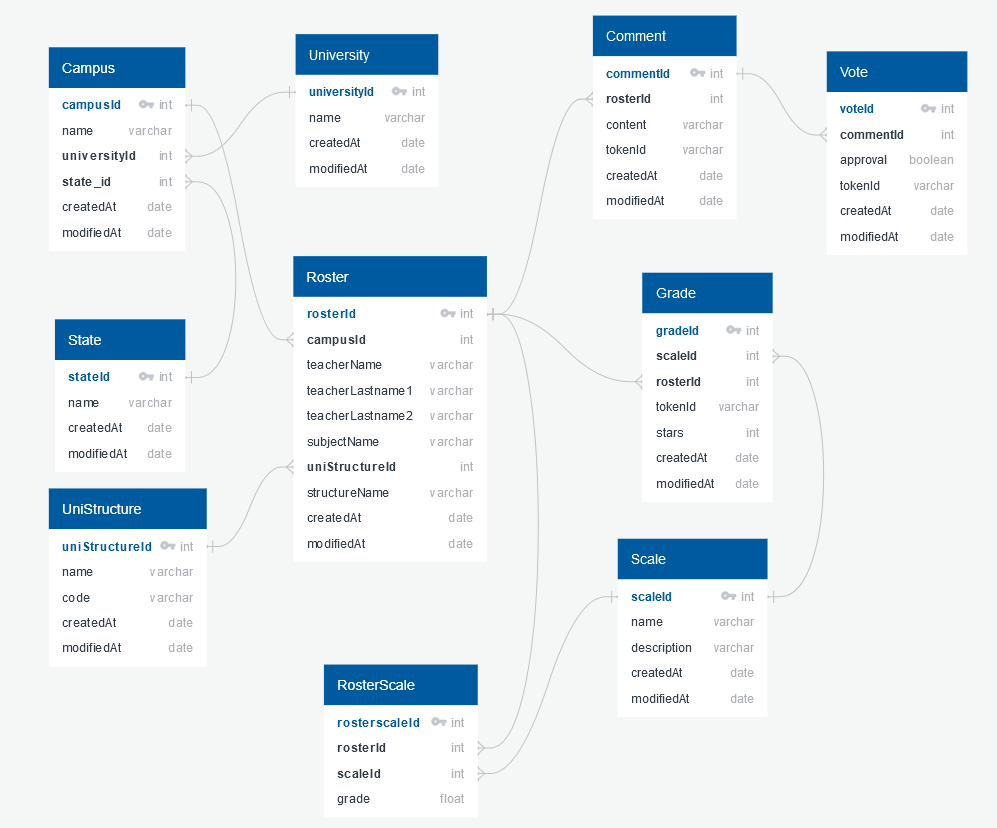
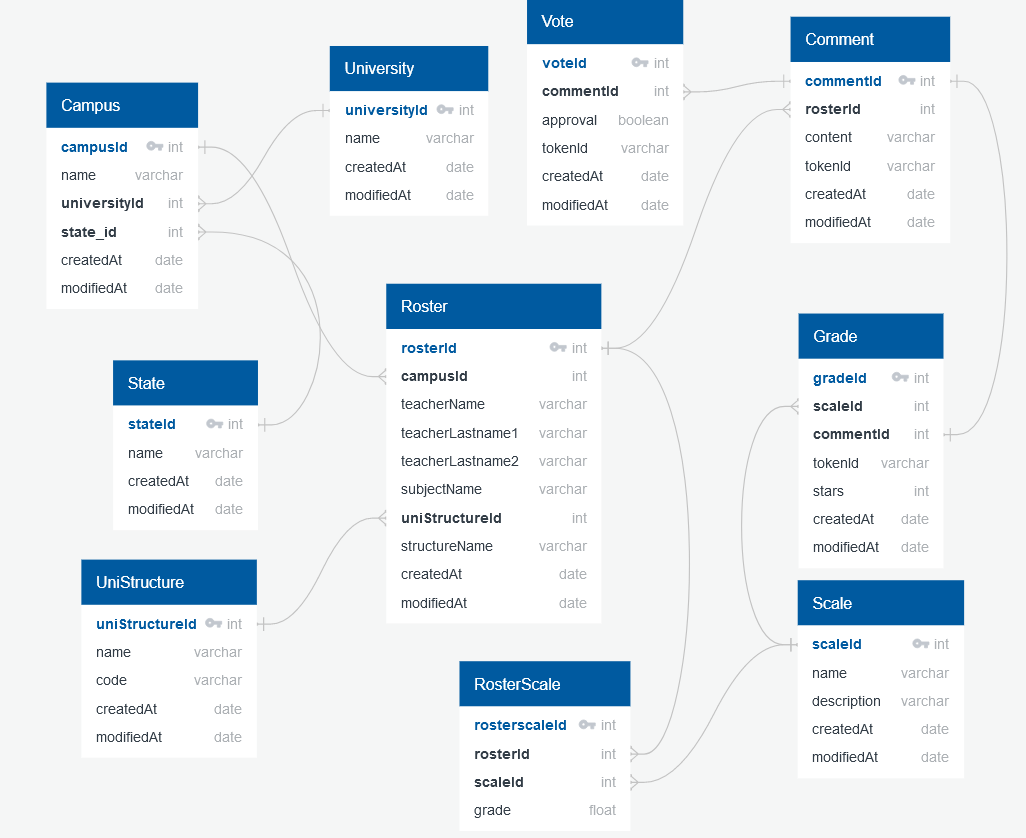
Relationship between Comment and Grade

diff --git a/back-csharp/_data/TeachersContext.cs b/back-csharp/_data/TeachersContext.cs
@@ -131,8 +131,8 @@ namespace back_csharp._data
                     .HasColumnName("gradeid");
                 entity.Property(e => e.ScaleId)
                     .HasColumnName("scaleid");
-                entity.Property(e => e.RosterId)
-                    .HasColumnName("rosterid");
+                entity.Property(e => e.CommentId)
+                    .HasColumnName("commentid");
                 entity.Property(e => e.TokenId)
                     .HasColumnName("tokenid");
                 entity.Property(e => e.Stars)
@@ -156,11 +156,10 @@ namespace back_csharp._data
                 entity.Property(e => e.TokenId)
                     .HasMaxLength(20);
 
-                entity.HasOne(d => d.Roster)
-                    .WithMany(p => p.Grades)
-                    .HasForeignKey(d => d.RosterId)
+                entity.HasOne(d => d.Comment)
+                    .WithOne(p => p.Grade)
                     .OnDelete(DeleteBehavior.ClientSetNull)
-                    .HasConstraintName("grade_roster_id_fkey");
+                    .HasConstraintName("grade_comment_id_fkey");
 
                 entity.HasOne(d => d.Scale)
                     .WithMany(p => p.Grades)

diff --git a/back-csharp/_models/Grade.cs b/back-csharp/_models/Grade.cs
@@ -7,13 +7,13 @@ namespace back_csharp._models
     {
         public int GradeId { get; set; }
         public int ScaleId { get; set; }
-        public int RosterId { get; set; }
+        public int CommentId { get; set; }
         public string TokenId { get; set; }
         public int? Stars { get; set; }
         public DateTime CreatedAt { get; set; }
         public DateTime? ModifiedAt { get; set; }
 
-        public virtual Roster Roster { get; set; } = null!;
+        public virtual Comment Comment { get; set; } = null!;
         public virtual Scale Scale { get; set; } = null!;
     }
 }

diff --git a/back-csharp/_models/Comment.cs b/back-csharp/_models/Comment.cs
@@ -18,6 +18,7 @@ namespace back_csharp._models
         public DateTime? ModifiedAt { get; set; }
 
         public virtual Roster Roster { get; set; } = null!;
+        public virtual Grade Grade { get; set; } = null!;
         public virtual ICollection<Vote> Votes { get; set; }
     }
 }
